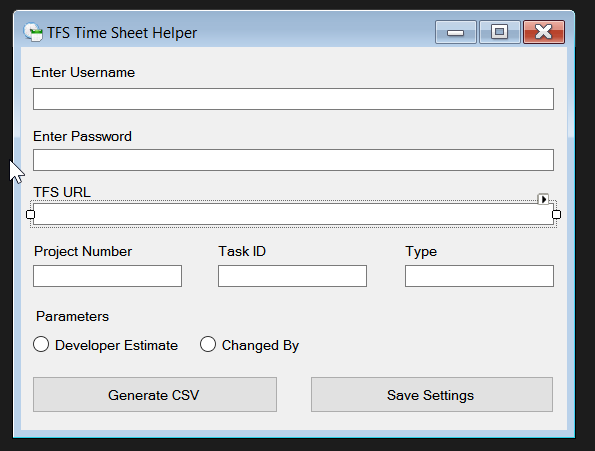
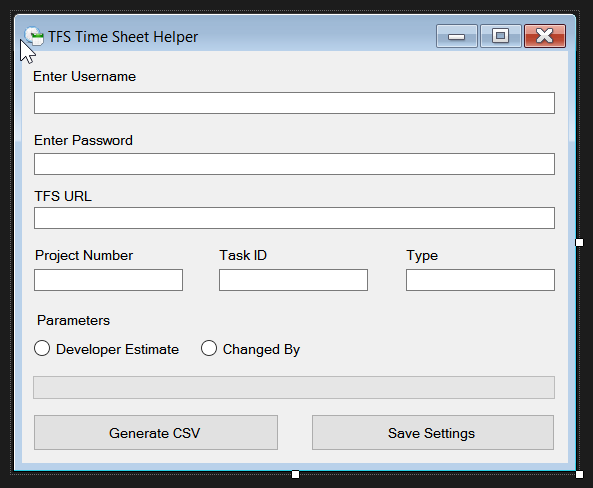
Update metadata

Changed region(s): [[0.0, 0.0, 1.0, 0.9933], [0.3035, 0.5898, 0.3339, 0.6208]]

diff --git a/Readme.md b/Readme.md
@@ -21,7 +21,8 @@ In order to make this work you might need to change the field name according to 
 ### Todos
 
  - ~~Add basic task chooser~~
- - Add proper messages and loading animation
+ - ~~Add proper messages and loading animation~~
+ - Optimize program and progress bar algorithm
 
 License
 ----
